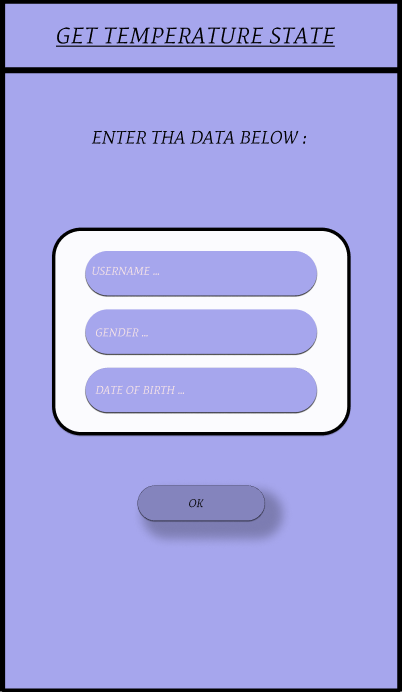
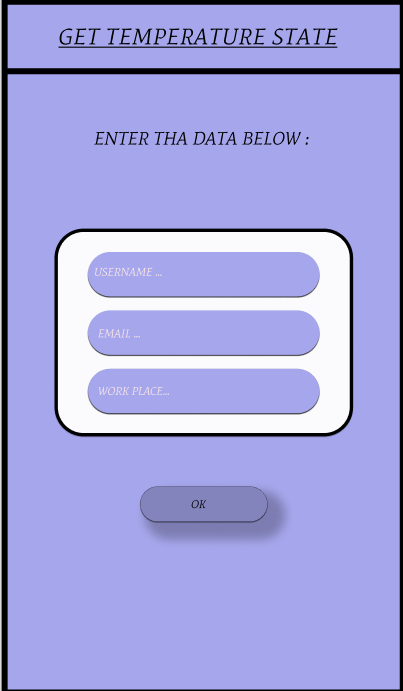
New Commit

diff --git a/2-SoftwareDesign/2.8-TestCases/2-FR-EquivalenceСlasses.md b/2-SoftwareDesign/2.8-TestCases/2-FR-EquivalenceСlasses.md
@@ -1,7 +1,7 @@
 |Опис вхідних умов|Правильний/неправильний клас еквівалентності|Опис значень вхідних даних|
 |:-----|:-----:|:-----|
-|1) Поле user не має бути порожнім;<br> 2) Поле gender не має містити цифри або спеціальні символи <br> 3) Довжина gender location не має перевищувати 20 символів <br> 4) Довжина date_of_birth не має перевищувати 10 символів. <br> |Правильний|user = "Sophia"<br> gender = "female"<br> date_of_birth = "19.05.1999" |
-|1) Поле user порожнє;<br> 2) Поле gender не має містити цифри та спеціальні символи <br> 3) Довжина поля gender не має перевищувати 20 символів<br> 4) Довжина date_of_birth не має перевищувати 10 символів. <br> |Неправильний|user = ""<br> gender = "female"<br> date_of_birth = "19.05.1999" |
-|1) Поле user не має бути порожнім;<br> 2) Поле gender містить цифри або спеціальні <br> 3) Довжина поля gender не має перевищувати 20 символів<br> 4) Довжина date_of_birth не має перевищувати 10 символів. <br> |Неправильний|user = "Sophia"<br> gender = "female 131?%"<br> date_of_birth = "19.05.1999" |
-|1) Поле user не має бути порожнім;<br> 2) Поле gender не має містити цифри або спеціальні символи <br> 3) Довжина поля gender перевищує 20 символів<br> 4) Довжина date_of_birth не має перевищувати 10 символів. <br> |Неправильний|user = "Sophia"<br> gender = "Tooo long input gender"<br> date_of_birth = "19.05.1999" |
-|1) Поле user не має бути порожнім;<br> 2) Поле gender не має містити цифри або спеціальні символи <br> 3) Довжина gender location не має перевищувати 20 символів <br> 4) Довжина date_of_birth перевищує 10 символів. <br> |Неправильний|user = "Sophia"<br> gender = "female"<br> date_of_birth = "19.05.1999..." |
+|1) Поле user не має бути порожнім;<br> 2) Поле work_place не має містити цифри або спеціальні символи <br> 3) Довжина work_place не має перевищувати 20 символів <br> 4) Довжина email не має перевищувати 10 символів. <br> |Правильний|user = "Sophia"<br> gender = "female"<br> date_of_birth = "19.05.1999" |
+|1) Поле user порожнє;<br> 2) Поле work_place не має містити цифри та спеціальні символи <br> 3) Довжина поля work_place не має перевищувати 20 символів<br> 4) Довжина email не має перевищувати 10 символів. <br> |Неправильний|user = ""<br> work_place = "office"<br> email = "Sonia1997@gmail.com" |
+|1) Поле user не має бути порожнім;<br> 2) Поле work_place містить цифри або спеціальні <br> 3) Довжина поля work_place не має перевищувати 20 символів<br> 4) Довжина email не має перевищувати 10 символів. <br> |Неправильний|user = "Sophia"<br> work_place = "office 131?%"<br> email = "Sonia1997@gmail.com" |
+|1) Поле user не має бути порожнім;<br> 2) Поле work_place не має містити цифри або спеціальні символи <br> 3) Довжина поля work_place перевищує 20 символів<br> 4) Довжина email не має перевищувати 10 символів. <br> |Неправильний|user = "Sophia"<br> work_place = "Tooo long input work place "<br> email = "Sonia1997@gmail.com" |
+|1) Поле user не має бути порожнім;<br> 2) Поле work_place не має містити цифри або спеціальні символи <br> 3) Довжина поля work_place не має перевищувати 20 символів <br> 4) Довжина email перевищує 30 символів. <br> |Неправильний|user = "Sophia"<br> work_place = "office "<br> email = "Sonia1997@gmail.com............." |

diff --git a/2-SoftwareDesign/2.8-TestCases/3-FR-TestCases.md b/2-SoftwareDesign/2.8-TestCases/3-FR-TestCases.md
@@ -1,7 +1,7 @@
 |FR id|TC id|Опис кроків тестового сценарію|Опис очікуваних результатів|
 |:-----:|:-----:|:-----|:-----:|
-|FR1.1|TC 1.1|Початкові умови: користувач має бути авторизований<br> Кроки сценарію:<br> user = "Sophia"<br> gender = "female"<br> date_of_birth = "18.07.2003"|Результат:<br>Temperature = Your work place now has excellent Temperature quality. The level of Temperature at the moment meets all norms and safety standards. You can enjoy fresh air and soft warm with safe living conditions. <br> Temperature = 25 degrees <br>result=1|
-|FR1.1|TC 1.2|Початкові умови: користувач має бути авторизований<br> Кроки сценарію:<br> user = ""<br> gender = "female"<br> date_of_birth = "19.05.1999"|result=-1|
-|FR1.1|TC 1.3|Початкові умови: користувач має бути авторизований<br> Кроки сценарію:<br> user = "Sophia"<br> gender = "female 123&"<br> date_of_birth = "19.05.1999"|result=-1|
-|FR1.1|TC 1.4|Початкові умови: користувач має бути авторизований<br> Кроки сценарію:<br> user = "Sophia"<br> gender = "Tooo long input location "<br> date_of_birth = "19.05.1999"|result=-1|
-|FR1.1|TC 1.5|Початкові умови: користувач має бути авторизований<br> Кроки сценарію:<br> user = "Sophia"<br> gender = "female"<br> date_of_birth = "19.05.1999..."|result=-1|
+|FR1.1|TC 1.1|Початкові умови: користувач має бути авторизований<br> Кроки сценарію:<br> user = "Sophia"<br> work_place= "office"<br> email = "Sonia1997@gmail.com"|Результат:<br>Temperature = Your work place now has excellent Temperature quality. The level of Temperature at the moment meets all norms and safety standards. You can enjoy fresh air and soft warm with safe living conditions. <br> Temperature = 25 degrees <br>result=1|
+|FR1.1|TC 1.2|Початкові умови: користувач має бути авторизований<br> Кроки сценарію:<br> user = ""<br> work_place = "office"<br> email = "Sonia1997@gmail.com"|result=-1|
+|FR1.1|TC 1.3|Початкові умови: користувач має бути авторизований<br> Кроки сценарію:<br> user = "Sophia"<br> work_place = "office 123&"<br> email = "Sonia1997@gmail.com"|result=-1|
+|FR1.1|TC 1.4|Початкові умови: користувач має бути авторизований<br> Кроки сценарію:<br> user = "Sophia"<br> work_place = "Tooo long input work_place "<br> email = "Sonia1997@gmail.com"|result=-1|
+|FR1.1|TC 1.5|Початкові умови: користувач має бути авторизований<br> Кроки сценарію:<br> user = "Sophia"<br> work_place = "office"<br> email = "Sonia1997@gmail.com.............."|result=-1|

diff --git a/2-SoftwareDesign/2.8-TestCases/4-NFR-TestCases.md b/2-SoftwareDesign/2.8-TestCases/4-NFR-TestCases.md
@@ -1,5 +1,5 @@
 |NFR id|TC id|Опис кроків тестового сценарію|Опис очікуваних результатів|
 |:-----:|:-----:|:-----|:-----:|
 |FR1.2|TC 1.5|Початкові умови: користувач має бути авторизований<br> Кроки сценарію: відсутні|Екранна форма:<br>![4.1](/2-SoftwareDesign/2.8-TestCases/4.1.png)|
-|FR1.2|TC 1.6|Початкові умови: успішно пройдено TC1.5<br> Кроки сценарію:<br>user = "Sophia"<br>gender = "female"<br> date_of_birth = "19.05.1999"|Екранна форма:<br>![4.2](/2-SoftwareDesign/2.8-TestCases/4.2.png)|
+|FR1.2|TC 1.6|Початкові умови: успішно пройдено TC1.5<br> Кроки сценарію:<br>user = "Sophia"<br> email = "Sonia1997@gmail.com"<br> work_place  = "office"|Екранна форма:<br>![4.2](/2-SoftwareDesign/2.8-TestCases/4.2.png)|
 |FR1.2|TC 1.7|Початкові умови: успішно пройдено TC1.6<br> Кроки сценарію:<br>Натиснути кнопку "OK"|Екранна форма:<br>![4.3](/2-SoftwareDesign/2.8-TestCases/4.3.png)|
